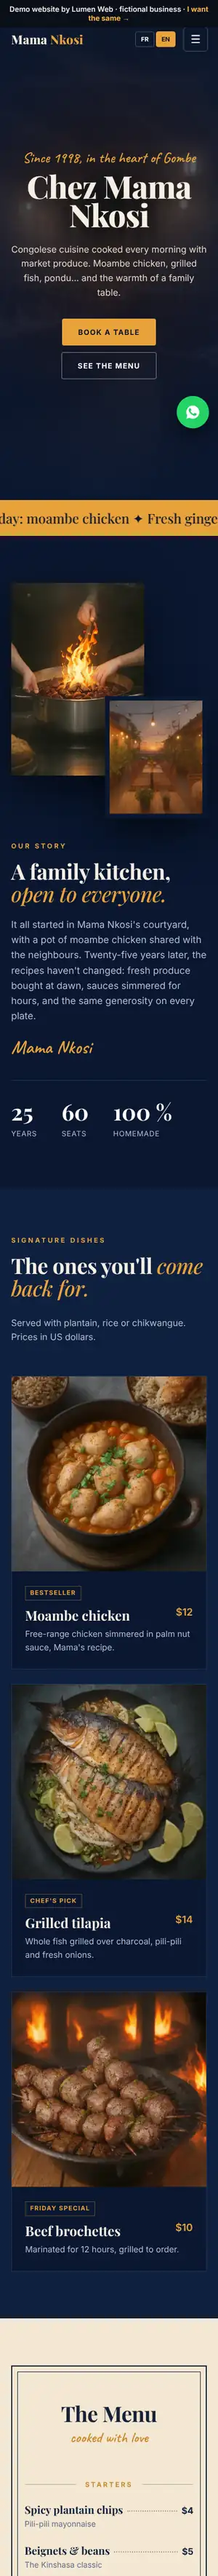
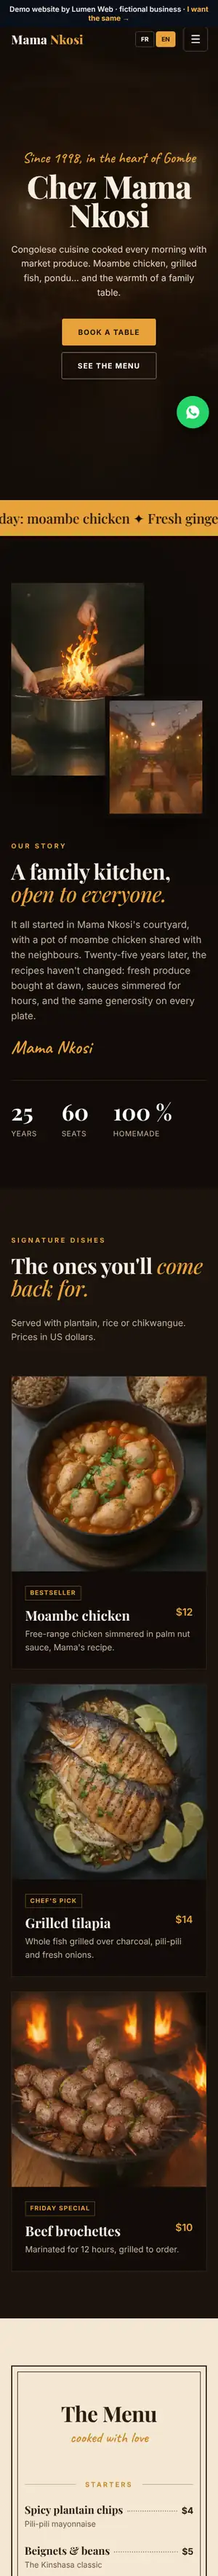
Démos : couleurs d'origine rétablies, seulement la règle 60-30-10 (un seul accent par démo)
Claude-Session: https://claude.ai/code/session_01VUZR2LVKQQHHefueQWcFqJ

diff --git a/demos/restaurant/index.html b/demos/restaurant/index.html
@@ -7,7 +7,7 @@
 <link rel="preconnect" href="https://fonts.googleapis.com"><link rel="preconnect" href="https://fonts.gstatic.com" crossorigin>
 <link href="https://fonts.googleapis.com/css2?family=Playfair+Display:ital,wght@0,500;0,700;0,800;1,500&family=Caveat:wght@600&family=Inter:wght@400;500;600;700&display=swap" rel="stylesheet">
 <style>img{height:auto}
-  :root{--fond:#0A1730;--fond2:#0F203F;--papier:#F3E7D2;--encre:#14213A;--or:#E9A23B;--rouge:#C98A2E;--doux:#B4BED3;--filet:#22365C;--serif:'Playfair Display',Georgia,serif}
+  :root{--fond:#110C08;--fond2:#1A130D;--papier:#F3E7D2;--encre:#2A1B10;--or:#E9A23B;--rouge:#C98A2E;--doux:#C7B39B;--filet:#33261A;--serif:'Playfair Display',Georgia,serif}
   *{margin:0;padding:0;box-sizing:border-box}html{scroll-behavior:smooth}
   body{font-family:Inter,system-ui,sans-serif;background:var(--fond);color:#F6EEE3;-webkit-font-smoothing:antialiased;line-height:1.6}
   a{color:inherit;text-decoration:none}img{display:block;max-width:100%}
@@ -15,21 +15,21 @@
   .bandeau{background:#0B0F1A;color:#F5F1E8;font:600 13px Inter;text-align:center;padding:8px 14px;position:relative;z-index:30}.bandeau a{color:#FFB547;font-weight:800}
   /* En-tête */
   header{position:fixed;left:0;right:0;top:36px;z-index:20;transition:background .3s,top .3s,box-shadow .3s}
-  header.defile{top:0;background:rgba(10,23,48,.92);backdrop-filter:blur(12px);box-shadow:0 1px 0 var(--filet)}
+  header.defile{top:0;background:rgba(17,12,8,.92);backdrop-filter:blur(12px);box-shadow:0 1px 0 var(--filet)}
   header .bloc{display:flex;align-items:center;justify-content:space-between;height:74px;gap:20px}
   .logo{font:800 22px var(--serif);letter-spacing:.01em}.logo span{color:var(--or)}
   header nav{display:flex;gap:30px;font-size:14px;letter-spacing:.1em;text-transform:uppercase}
   header nav a{opacity:.85}header nav a:hover{opacity:1;color:var(--or)}
   .droite{display:flex;align-items:center;gap:14px}
-  .lg{display:flex;gap:3px}.lg button{border:1px solid rgba(255,255,255,.25);background:none;color:#fff;font:700 11px Inter;padding:6px 9px;border-radius:4px;cursor:pointer}.lg button.on{background:var(--or);border-color:var(--or);color:#0A1426}
-  .btn{display:inline-flex;align-items:center;justify-content:center;gap:9px;padding:15px 28px;border-radius:3px;font:700 13px Inter;letter-spacing:.1em;text-transform:uppercase;background:var(--or);color:#0A1426;border:1px solid var(--or);cursor:pointer;transition:transform .2s,background .2s}
+  .lg{display:flex;gap:3px}.lg button{border:1px solid rgba(255,255,255,.25);background:none;color:#fff;font:700 11px Inter;padding:6px 9px;border-radius:4px;cursor:pointer}.lg button.on{background:var(--or);border-color:var(--or);color:#1E1206}
+  .btn{display:inline-flex;align-items:center;justify-content:center;gap:9px;padding:15px 28px;border-radius:3px;font:700 13px Inter;letter-spacing:.1em;text-transform:uppercase;background:var(--or);color:#1E1206;border:1px solid var(--or);cursor:pointer;transition:transform .2s,background .2s}
   .btn:hover{transform:translateY(-2px)}.btn.ligne{background:transparent;color:#fff;border-color:rgba(255,255,255,.45)}.btn svg{width:17px;height:17px;fill:currentColor}
   header .btn{padding:11px 18px}
   .burger{display:none;width:44px;height:44px;border:1px solid rgba(255,255,255,.25);border-radius:6px;background:none;color:#fff;font-size:20px;cursor:pointer}
   /* Accroche */
   .hero{height:100svh;min-height:640px;position:relative;display:flex;align-items:center;justify-content:center;text-align:center;overflow:hidden}
   .hero img{position:absolute;inset:0;width:100%;height:100%;object-fit:cover;transform:scale(1.05)}
-  .hero::after{content:"";position:absolute;inset:0;background:radial-gradient(70% 60% at 50% 55%,rgba(10,23,48,.35),rgba(10,23,48,.85)),linear-gradient(180deg,rgba(10,23,48,.6),transparent 30%,rgba(10,23,48,.95))}
+  .hero::after{content:"";position:absolute;inset:0;background:radial-gradient(70% 60% at 50% 55%,rgba(17,12,8,.35),rgba(17,12,8,.85)),linear-gradient(180deg,rgba(17,12,8,.6),transparent 30%,rgba(17,12,8,.95))}
   .hero .contenu{position:relative;z-index:1;padding:0 20px;max-width:920px}
   .script{font:600 clamp(26px,3vw,36px) Caveat,cursive;color:var(--or)}
   h1{font:800 clamp(56px,10.5vw,136px)/.92 var(--serif);letter-spacing:-.02em;margin:8px 0 24px;text-shadow:0 10px 40px rgba(0,0,0,.5)}
@@ -38,7 +38,7 @@
   .note{position:absolute;bottom:34px;left:50%;transform:translateX(-50%);z-index:1;display:flex;gap:26px;font-size:13px;color:#D8C6AE;letter-spacing:.06em;text-transform:uppercase;white-space:nowrap}
   .note b{color:var(--or)}
   /* Bande défilante */
-  .defile-bande{background:var(--or);color:#0A1730;overflow:hidden;white-space:nowrap;padding:16px 0;font:500 24px var(--serif)}
+  .defile-bande{background:var(--or);color:#110C08;overflow:hidden;white-space:nowrap;padding:16px 0;font:500 24px var(--serif)}
   .defile-bande div{display:inline-block;animation:defile 38s linear infinite}@keyframes defile{to{transform:translateX(-50%)}}
   /* Histoire */
   section{padding:120px 0;position:relative}
@@ -72,9 +72,9 @@
   .carte h2{text-align:center}.carte .script{text-align:center;color:var(--rouge);margin:6px 0 44px}
   .col2{display:grid;grid-template-columns:1fr 1fr;gap:22px 70px}
   .cat{font:700 12px Inter;letter-spacing:.24em;text-transform:uppercase;color:var(--rouge);grid-column:1/-1;text-align:center;margin:16px 0 2px;display:flex;align-items:center;gap:16px}
-  .cat::before,.cat::after{content:"";flex:1;height:1px;background:rgba(20,33,58,.3)}
-  .lm{display:flex;align-items:baseline;gap:8px}.lm b{font:600 19px var(--serif)}.lm i{flex:1;border-bottom:2px dotted rgba(20,33,58,.35);transform:translateY(-4px)}.lm span{font-weight:700}
-  .desc{font-size:14px;color:#5E6E8E}
+  .cat::before,.cat::after{content:"";flex:1;height:1px;background:rgba(42,27,16,.3)}
+  .lm{display:flex;align-items:baseline;gap:8px}.lm b{font:600 19px var(--serif)}.lm i{flex:1;border-bottom:2px dotted rgba(42,27,16,.35);transform:translateY(-4px)}.lm span{font-weight:700}
+  .desc{font-size:14px;color:#6E5641}
   .carte .actions{text-align:center;margin-top:48px}.carte .btn.ligne{color:var(--encre);border-color:var(--encre)}
   /* Galerie */
   .galerie{display:grid;grid-template-columns:repeat(4,1fr);grid-auto-rows:260px;gap:12px}
@@ -109,10 +109,10 @@
   /* Carte de localisation stylisée */
   .plan{height:220px;margin-top:30px;border:1px solid var(--filet);position:relative;overflow:hidden;
         background:linear-gradient(90deg,rgba(255,255,255,.04) 1px,transparent 1px) 0 0/34px 34px,linear-gradient(rgba(255,255,255,.04) 1px,transparent 1px) 0 0/34px 34px,#17110C}
-  .plan::before{content:"";position:absolute;left:-10%;top:58%;width:120%;height:14px;background:#1A2A48;transform:rotate(-8deg)}
-  .plan::after{content:"";position:absolute;left:38%;top:-10%;width:12px;height:120%;background:#1A2A48;transform:rotate(12deg)}
+  .plan::before{content:"";position:absolute;left:-10%;top:58%;width:120%;height:14px;background:#2A1F15;transform:rotate(-8deg)}
+  .plan::after{content:"";position:absolute;left:38%;top:-10%;width:12px;height:120%;background:#2A1F15;transform:rotate(12deg)}
   .pin{position:absolute;left:44%;top:40%;z-index:1;font-size:34px;filter:drop-shadow(0 6px 10px rgba(0,0,0,.6))}
-  .plan a{position:absolute;right:12px;bottom:12px;z-index:1;background:var(--or);color:#0A1426;font:700 12px Inter;padding:8px 12px;letter-spacing:.06em;text-transform:uppercase}
+  .plan a{position:absolute;right:12px;bottom:12px;z-index:1;background:var(--or);color:#1E1206;font:700 12px Inter;padding:8px 12px;letter-spacing:.06em;text-transform:uppercase}
   footer{border-top:1px solid var(--filet);padding:60px 0 30px;color:var(--doux);font-size:14px}
   .pied{display:grid;grid-template-columns:1.4fr 1fr 1fr 1fr;gap:40px;margin-bottom:46px}
   .pied h4{color:#fff;font:700 15px Inter;letter-spacing:.12em;text-transform:uppercase;margin-bottom:14px}.pied a{display:block;margin-bottom:8px}.pied a:hover{color:var(--or)}
@@ -120,7 +120,7 @@
   .wa{position:fixed;right:18px;bottom:84px;width:58px;height:58px;border-radius:50%;background:#25D366;display:grid;place-items:center;z-index:25;box-shadow:0 12px 30px rgba(0,0,0,.45)}.wa svg{width:28px;fill:#fff}
   .anim .rv{opacity:0;transform:translateY(14px);transition:opacity .45s ease,transform .45s ease}.anim .rv.vu{opacity:1;transform:none}
   @media(max-width:980px){
-    header nav{display:none;position:absolute;top:74px;left:0;right:0;flex-direction:column;gap:0;background:rgba(10,23,48,.98);border-top:1px solid var(--filet)}
+    header nav{display:none;position:absolute;top:74px;left:0;right:0;flex-direction:column;gap:0;background:rgba(17,12,8,.98);border-top:1px solid var(--filet)}
     header nav.ouvert{display:flex}header nav a{padding:16px 20px;border-bottom:1px solid var(--filet)}
     .burger{display:block}header .btn{display:none}
     .histoire .bloc,.resa .bloc,.evt .bloc{grid-template-columns:1fr;gap:40px}.duo-photos{height:420px}

diff --git a/demos/hotel/index.html b/demos/hotel/index.html
@@ -7,7 +7,7 @@
 <link rel="preconnect" href="https://fonts.googleapis.com"><link rel="preconnect" href="https://fonts.gstatic.com" crossorigin>
 <link href="https://fonts.googleapis.com/css2?family=Cormorant+Garamond:ital,wght@0,500;0,600;1,500&family=Jost:wght@300;400;500;600&display=swap" rel="stylesheet">
 <style>img{height:auto}
-  :root{--sable:#F5F1E8;--sable2:#EDE6D8;--encre:#13213A;--vert:#1B3A6B;--vert-f:#0F2547;--cuivre:#B87343;--doux:#667089;--filet:#DCD4C4;--serif:'Cormorant Garamond',Georgia,serif}
+  :root{--sable:#F5F1E8;--sable2:#EDE6D8;--encre:#1C2925;--vert:#1F6F5C;--vert-f:#14352D;--cuivre:#B87343;--doux:#67726D;--filet:#DCD4C4;--serif:'Cormorant Garamond',Georgia,serif}
   *{margin:0;padding:0;box-sizing:border-box}html{scroll-behavior:smooth}
   body{font-family:Jost,system-ui,sans-serif;font-weight:400;background:var(--sable);color:var(--encre);-webkit-font-smoothing:antialiased;line-height:1.65}
   a{color:inherit;text-decoration:none}img{display:block;max-width:100%}
@@ -28,7 +28,7 @@
   /* Accroche */
   .hero{height:100svh;min-height:660px;position:relative;display:flex;align-items:flex-end;color:#fff;overflow:hidden}
   .hero img{position:absolute;inset:0;width:100%;height:100%;object-fit:cover;animation:zoom 18s ease-out both}@keyframes zoom{from{transform:scale(1.12)}}
-  .hero::after{content:"";position:absolute;inset:0;background:linear-gradient(180deg,rgba(0,0,0,.35),transparent 30%,transparent 50%,rgba(10,18,34,.78))}
+  .hero::after{content:"";position:absolute;inset:0;background:linear-gradient(180deg,rgba(0,0,0,.35),transparent 30%,transparent 50%,rgba(10,20,17,.78))}
   .hero .contenu{position:relative;z-index:1;padding-bottom:150px}
   .hero small{letter-spacing:.38em;text-transform:uppercase;font-size:12px}
   h1{font:500 clamp(56px,9.4vw,132px)/.92 var(--serif);margin:16px 0 0;letter-spacing:-.01em}h1 em{font-style:italic}
@@ -58,13 +58,13 @@
   .ch ul{list-style:none;display:flex;flex-wrap:wrap;gap:8px 20px;margin:22px 0;font-size:14px;color:var(--encre)}.ch li::before{content:"— ";color:var(--cuivre)}
   .ch .prix{display:flex;align-items:center;gap:24px;margin-top:10px;flex-wrap:wrap}.ch .prix b{font:500 30px var(--serif)}.ch .prix small{color:var(--doux);font-size:14px}
   /* Expériences : cartes verticales */
-  .exp{background:var(--vert-f);color:#EFE9DC}.exp h2 em{color:#E3B98A}.exp .centre p{color:#B8C3D6}
+  .exp{background:var(--vert-f);color:#EFE9DC}.exp h2 em{color:#E3B98A}.exp .centre p{color:#B5C3BC}
   .exp-grille{display:grid;grid-template-columns:repeat(3,1fr);gap:24px;margin-top:70px}
   .carte-exp{position:relative;aspect-ratio:4/5;overflow:hidden}
   .carte-exp img{width:100%;height:100%;object-fit:cover;transition:transform 1s}.carte-exp:hover img{transform:scale(1.06)}
-  .carte-exp::after{content:"";position:absolute;inset:0;background:linear-gradient(180deg,transparent 40%,rgba(8,16,32,.9))}
+  .carte-exp::after{content:"";position:absolute;inset:0;background:linear-gradient(180deg,transparent 40%,rgba(8,20,16,.9))}
   .carte-exp div{position:absolute;left:28px;right:28px;bottom:26px;z-index:1}
-  .carte-exp b{font:italic 500 20px var(--serif);color:#E3B98A}.carte-exp h3{font:500 32px/1.1 var(--serif);margin:4px 0 8px;color:#fff}.carte-exp p{font-size:15px;color:#D5DCE8;font-weight:300}
+  .carte-exp b{font:italic 500 20px var(--serif);color:#E3B98A}.carte-exp h3{font:500 32px/1.1 var(--serif);margin:4px 0 8px;color:#fff}.carte-exp p{font-size:15px;color:#D5DDD8;font-weight:300}
   /* Restaurant */
   .table .bloc{display:grid;grid-template-columns:1fr 1fr;gap:90px;align-items:center}
   .table img{width:100%;aspect-ratio:4/5;object-fit:cover}
@@ -83,7 +83,7 @@
   /* Contact */
   .contact{background:var(--encre);color:#EFE9DC}.contact h2 em{color:#E3B98A}
   .contact .bloc{display:grid;grid-template-columns:1fr 1.1fr;gap:80px}
-  .coord{margin-top:40px;display:grid;gap:22px}.coord span{display:block;font-size:12px;letter-spacing:.24em;text-transform:uppercase;color:#93A3BD}.coord p{font:500 22px var(--serif)}
+  .coord{margin-top:40px;display:grid;gap:22px}.coord span{display:block;font-size:12px;letter-spacing:.24em;text-transform:uppercase;color:#93A59C}.coord p{font:500 22px var(--serif)}
   .canaux{display:flex;flex-wrap:wrap;gap:12px;margin-top:36px}
   .canal{display:inline-flex;align-items:center;gap:10px;border:1px solid rgba(255,255,255,.25);padding:13px 18px;font-size:13px;letter-spacing:.14em;text-transform:uppercase;transition:border-color .3s}.canal:hover{border-color:#E3B98A}
   .canal svg{width:17px;fill:#E3B98A}
@@ -94,7 +94,7 @@
   form input,form select,form textarea{display:block;width:100%;margin-top:8px;border:0;border-bottom:1px solid #BDB4A2;background:none;font:400 17px Jost;color:var(--encre);padding:8px 0}
   form input:focus,form select:focus,form textarea:focus{outline:none;border-color:var(--vert)}
   .choix{display:flex;gap:18px;flex-wrap:wrap;margin-top:10px}.choix label{display:flex;align-items:center;gap:8px;letter-spacing:.06em;text-transform:none;font-size:15px;color:var(--encre)}.choix input{width:auto;margin:0;accent-color:var(--vert)}
-  footer{background:#111C19;color:#93A3BD;padding:70px 0 30px;font-size:14px}
+  footer{background:#111C19;color:#93A59C;padding:70px 0 30px;font-size:14px}
   .pied{display:grid;grid-template-columns:1.5fr 1fr 1fr 1fr;gap:40px;padding-bottom:50px;border-bottom:1px solid rgba(255,255,255,.1)}
   .pied .marque{text-align:left;color:#EFE9DC}.pied h4{color:#EFE9DC;font:500 12px Jost;letter-spacing:.24em;text-transform:uppercase;margin-bottom:16px}.pied a{display:block;margin-bottom:9px}.pied a:hover{color:#fff}
   .bas{display:flex;justify-content:space-between;flex-wrap:wrap;gap:10px;padding-top:24px}
